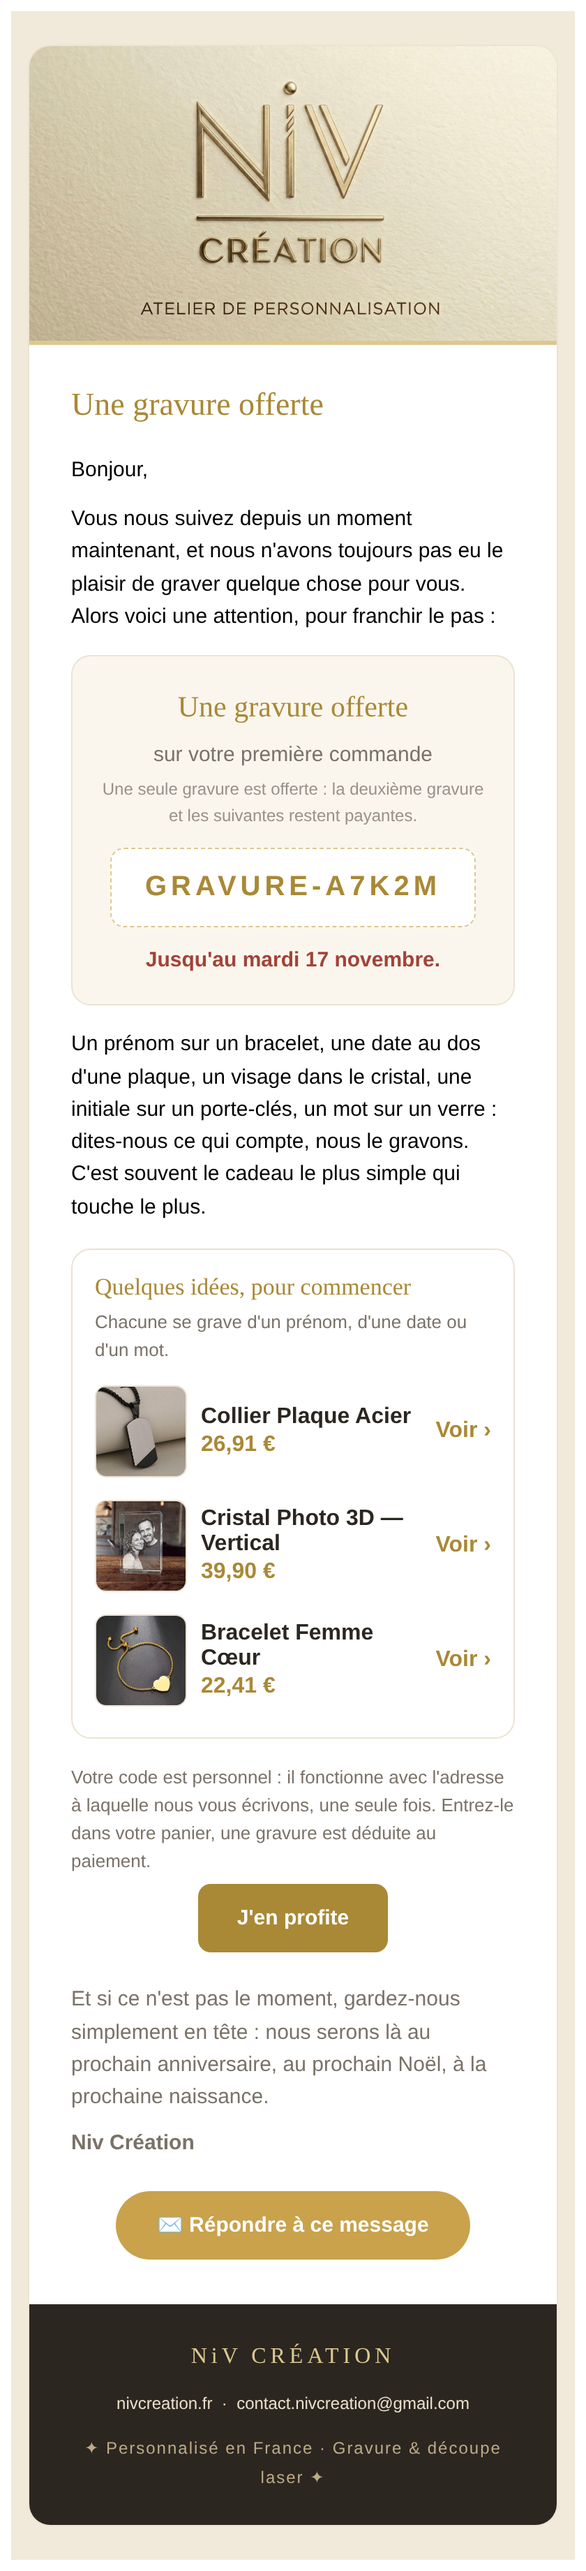
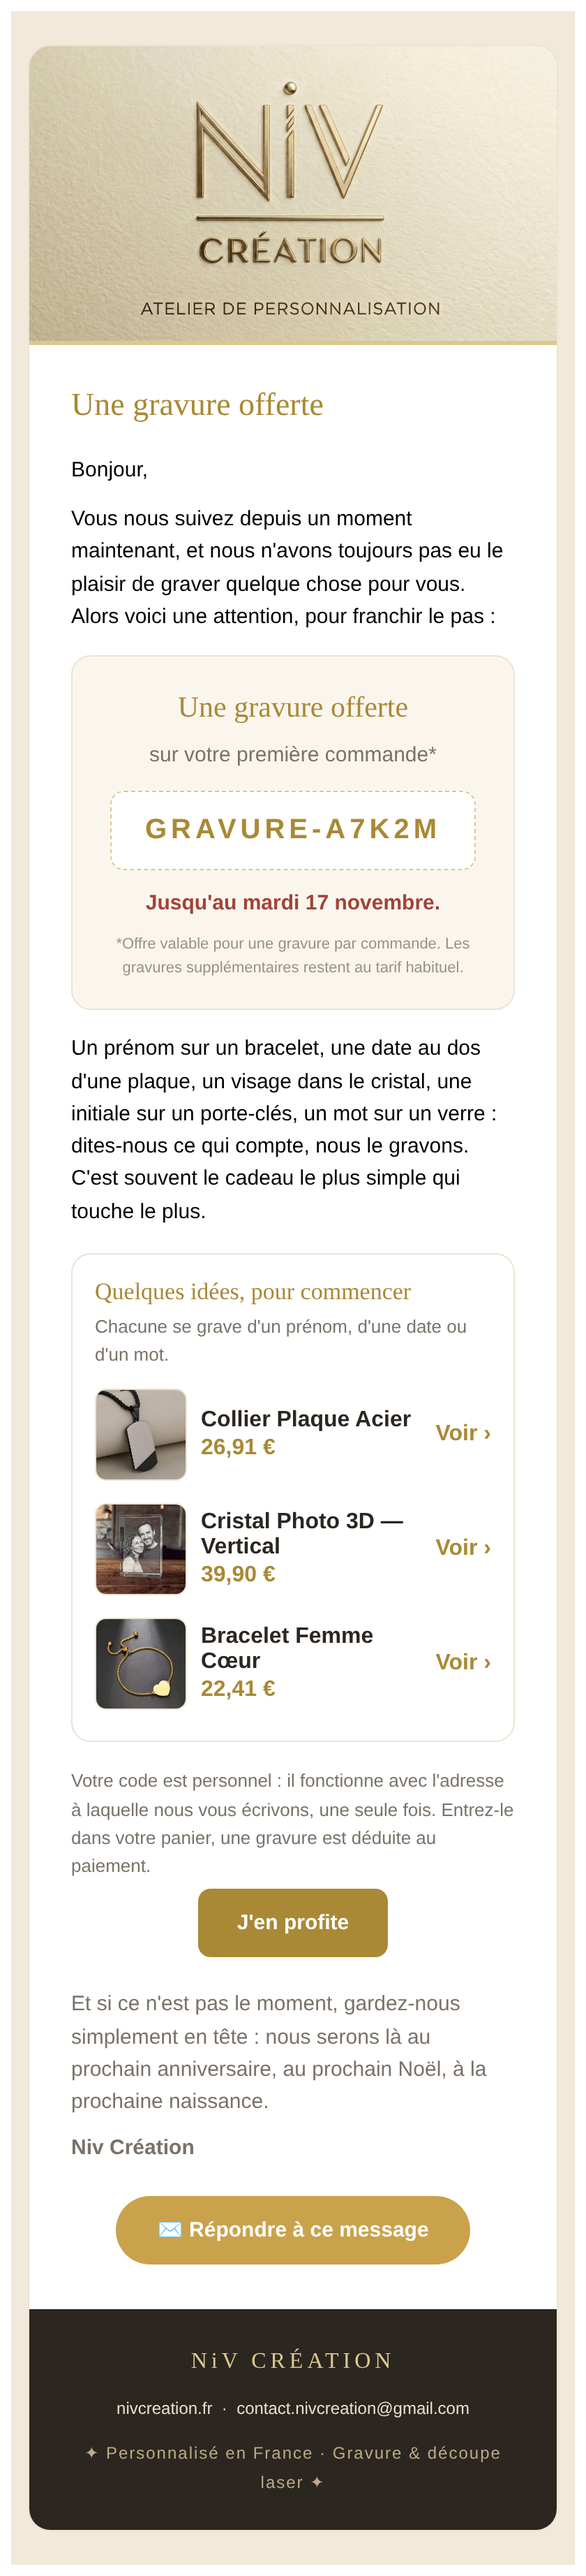
Mail « gravure offerte » : condition en petite note (*), ton plus doux (préparé, pas en ligne)
Claude-Session: https://claude.ai/code/session_013Nt78VnTBT8S9aqZe85f4z

diff --git a/src/lib/offreGravure.js b/src/lib/offreGravure.js
@@ -129,10 +129,10 @@ export function offreGravureEmail({ date = "", code = "GRAVUREOFFERTE", fin = ""
     <p style="margin:0 0 16px;">${ouverturePhrase(date)} Alors voici une attention, pour franchir le pas :</p>
     <div style="text-align:center;background:${BRAND.cream};border:1px solid #ece3d2;border-radius:14px;padding:20px;margin:0 0 16px;">
       <div style="font-family:Georgia,serif;font-size:21px;color:${gold};">Une gravure offerte</div>
-      <div style="color:#7a7268;margin-top:6px;">sur votre première commande</div>
-      <div style="color:#9a9087;font-size:12px;margin-top:4px;">Une seule gravure est offerte : la deuxième gravure et les suivantes restent payantes.</div>
+      <div style="color:#7a7268;margin-top:6px;">sur votre première commande*</div>
       <div style="display:inline-block;margin-top:14px;font-size:20px;font-weight:bold;letter-spacing:3px;color:${gold};background:#fff;border:1px dashed #dcc88f;border-radius:10px;padding:12px 24px;">${code}</div>
       ${echeance}
+      <div style="color:#9a9087;font-size:11px;margin-top:10px;">*Offre valable pour une gravure par commande. Les gravures supplémentaires restent au tarif habituel.</div>
     </div>
     ${ligneCadeau}
     <p style="margin:0 0 18px;">Un prénom sur un bracelet, une date au dos d'une plaque, un visage dans le cristal, une initiale sur un porte-clés, un mot sur un verre : dites-nous ce qui compte, nous le gravons. C'est souvent le cadeau le plus simple qui touche le plus.</p>
